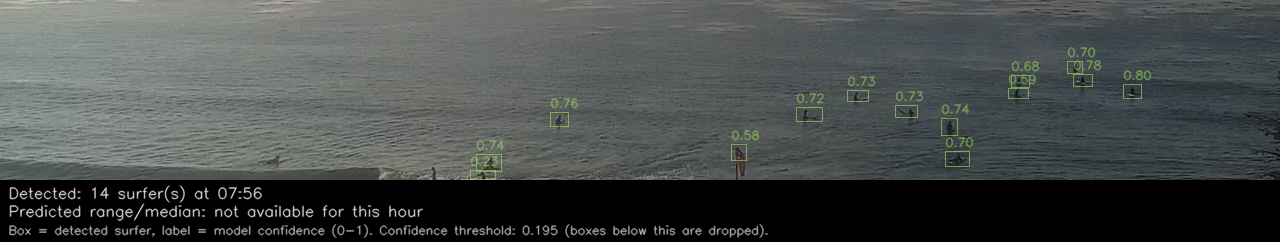
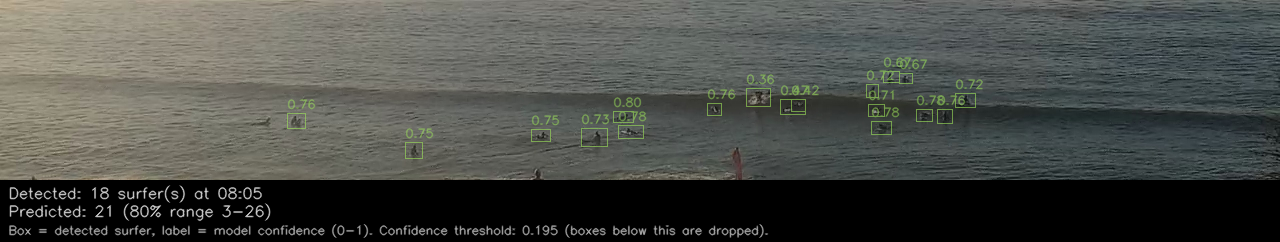
Automated: update daily surfer count chart (2026-09-08)

diff --git a/README.md b/README.md
@@ -76,12 +76,12 @@ tuned over time, and [PROJECT_FILES.md](docs/PROJECT_FILES.md) for a map
 of what every file in this repo does.
 
 <!-- DAILY_CHART_START -->
-#### A Recent Surfer Detection Count: Thursday, September 03, 2026, 7:56 AM
+#### A Recent Surfer Detection Count: Tuesday, September 08, 2026, 8:05 AM
 
 Each green box below contains a surfer, according to the object detection model.  Each number above a box indicates the probability that the object is a surfer.  Look carefully and you may find additional surfers that the model missed or other objects which are misclassified as surfers - like the wind sock at the bottom center of the photo.
 ![Latest detection review](data/charts/latest_detection.png)
 
-#### The Surfer Crowd Forecast for: Tuesday, September 08, 2026
+#### The Surfer Crowd Forecast for: Wednesday, September 09, 2026
 
 Once enough hours and days were gathered along with weather and surf conditions, a surf count prediction model was built to forecast how many surfers would be present at each hour for the coming day.  This is useful for surfers to plan to avoid busy times or at least know what to expect.  Recently the predictions have been low compared to actual counts, so more images are being collected to improve the object detection model's ability to find surfers in a variety of light and water conditions, like fog or choppy water surfaces.
 ![Latest daily prediction chart](data/charts/latest.png)
